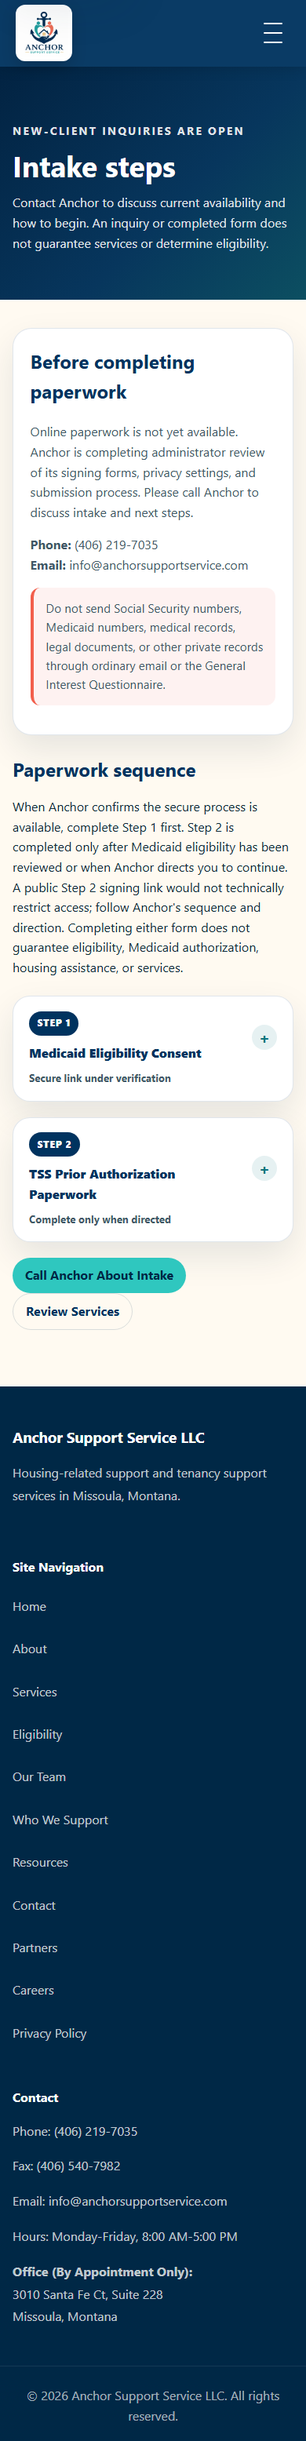
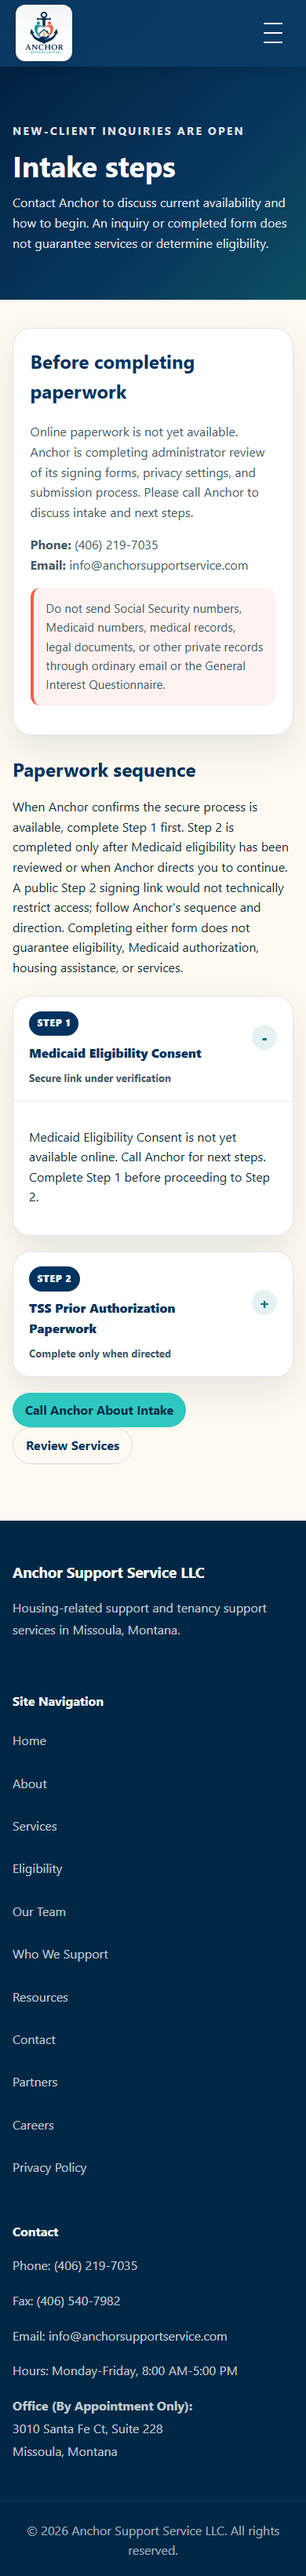
Restore two-step intake paperwork layout

diff --git a/secure-paperwork.html b/secure-paperwork.html
@@ -49,7 +49,7 @@
           <h2 id="paperwork-steps-title">Paperwork sequence</h2>
           <p>When Anchor confirms the secure process is available, complete Step 1 first. Step 2 is completed only after Medicaid eligibility has been reviewed or when Anchor directs you to continue. A public Step 2 signing link would not technically restrict access; follow Anchor's sequence and direction. Completing either form does not guarantee eligibility, Medicaid authorization, housing assistance, or services.</p>
           <div class="paperwork-accordion">
-            <details class="paperwork-step">
+            <details class="paperwork-step" open>
               <summary><span class="paperwork-step-number">Step 1</span><span class="paperwork-step-title">Medicaid Eligibility Consent</span><span class="paperwork-step-status">Secure link under verification</span></summary>
               <div class="paperwork-step-content"><p>Medicaid Eligibility Consent is not yet available online. Call Anchor for next steps. Complete Step 1 before proceeding to Step 2.</p></div>
             </details>

diff --git a/.github/site-tools/website_qa.py b/.github/site-tools/website_qa.py
@@ -249,11 +249,21 @@ def main():
             secure_html = (root / "secure-paperwork.html").read_text(encoding="utf-8").casefold()
             secure_online_unavailable = "online paperwork is not yet available" in secure_text.casefold()
             no_published_jotform_link = "jotform.com" not in secure_html and "/invite/" not in secure_html
-            secure_intake_ok = secure_meta == "noindex, nofollow" and all(s in secure_text + " " + steps_text for s in ["Step 1", "Medicaid Eligibility Consent", "Step 2", "TSS Prior Authorization Paperwork", "only after Medicaid eligibility has been reviewed", "does not guarantee eligibility, Medicaid authorization, housing assistance"]) and secure_online_unavailable and no_published_jotform_link and page.locator(".paperwork-step").count() == 2 and page.locator("iframe").count() == 0 and page.locator("form").count() == 0 and page.locator('a[href="tel:4062197035"]').count() >= 1 and page.locator('a[href^="https://www.jotform.com/"]').count() == 0
+            steps = page.locator(".paperwork-step")
+            step1_open = steps.count() == 2 and steps.nth(0).evaluate("el => el.open")
+            step2_summary = steps.nth(1).locator("summary") if steps.count() == 2 else None
+            if step2_summary:
+                step2_summary.click()
+                step2_expands = steps.nth(1).evaluate("el => el.open")
+                step2_summary.click()
+                step2_collapses = not steps.nth(1).evaluate("el => el.open")
+            else:
+                step2_expands = step2_collapses = False
+            secure_intake_ok = secure_meta == "noindex, nofollow" and all(s in secure_text + " " + steps_text for s in ["Step 1", "Medicaid Eligibility Consent", "Step 2", "TSS Prior Authorization Paperwork", "only after Medicaid eligibility has been reviewed", "does not guarantee eligibility, Medicaid authorization, housing assistance"]) and secure_online_unavailable and no_published_jotform_link and steps.count() == 2 and step1_open and step2_expands and step2_collapses and page.locator("iframe").count() == 0 and page.locator("form").count() == 0 and page.locator('a[href="tel:4062197035"]').count() >= 1 and page.locator('a[href^="https://www.jotform.com/"]').count() == 0
             stale_pause_copy = re.compile(r"paused from accepting new clients|new client pause|intake (?:is )?paused|paperwork (?:is )?paused", re.I)
             public_html = [root / "index.html", root / "careers" / "index.html", root / "secure-paperwork.html"]
             no_stale_intake_pause = all(not stale_pause_copy.search(file.read_text(encoding="utf-8")) for file in public_html)
-            results["journeys"]["new_client_intake"] = {"homepage_notice": intake_notice_ok, "secure_steps_and_online_forms_unavailable": secure_intake_ok, "no_jotform_or_invitation_links_published": no_published_jotform_link, "secure_route_noindex_nofollow": secure_meta == "noindex, nofollow", "no_stale_pause_copy": no_stale_intake_pause}
+            results["journeys"]["new_client_intake"] = {"homepage_notice": intake_notice_ok, "secure_steps_and_online_forms_unavailable": secure_intake_ok, "step1_open": step1_open, "step2_expandable_and_collapsible": step2_expands and step2_collapses, "no_jotform_or_invitation_links_published": no_published_jotform_link, "secure_route_noindex_nofollow": secure_meta == "noindex, nofollow", "no_stale_pause_copy": no_stale_intake_pause}
 
             page.set_viewport_size({"width": 390, "height": 844})
             page.goto(base + "/", wait_until="networkidle")

diff --git a/review-artifacts/partners/RELEASE_REVIEW.md b/review-artifacts/partners/RELEASE_REVIEW.md
@@ -30,11 +30,13 @@ The two historical forms are:
 
 The `/secure-paperwork.html` page provides verified telephone contact and clearly states that online paperwork is not yet available. The homepage Contact section now offers the existing Google General Interest Questionnaire alongside the phone and intake-steps actions, states it is not a secure Medicaid enrollment form, and warns against submitting sensitive medical, Medicaid, or identifying information. The form's public blank view asks for contact information and general housing/service needs, explicitly prohibits Social Security numbers, medical records, legal documents, full Medicaid numbers, and private documents, and provides a submit control. On November 18, 2026, it loaded successfully (HTTP 200), showed a Submit control, and displayed no closed-form message. No data was entered or submitted. This indicates the form appeared open at check time, but does not verify response routing or notifications.
 
-The intake page retains the Step 1 Medicaid Consent then Step 2 TSS Referral / Prior Authorization sequence, with Step 2 only after Medicaid review or Anchor's direction. No Jotform embed, invitation link, or full-screen signing link is included in current website source or generated public output. Online signing remains inactive.
+The intake page retains the Step 1 Medicaid Consent then Step 2 TSS Referral / Prior Authorization sequence, with Step 2 only after Medicaid review or Anchor's direction. Step 1 is open by default and Step 2 is expandable. No Jotform embed, invitation link, or full-screen signing link is included in current website source or generated public output. Online signing remains inactive.
 
 An earlier anonymous read-only check observed some non-empty fields in the supplied forms. **That observation alone is not evidence of a privacy incident. No field contents were inspected, exposed, recorded, or submitted.** The authorized Jotform administrator must determine whether any prefilled content is an intentional organization-level default or applicant-specific information by inspecting form configuration in the authenticated account and confirming with safe synthetic sessions only. No actual applicant values should be copied into this review or shared during verification.
 
 The supplied invite-path URLs appeared in earlier pushed branch commit `1fe7784`. They have been removed from the current website source and generated public output, but remain in Git history; this update does not rewrite branch history. That fact does not establish applicant-data exposure. The Jotform administrator should determine whether those URLs are invitation-specific and invalidate/reissue them if appropriate under Anchor's process.
+
+The reference implementation in `8f022ebe5cbd2c9fb88d0cd2124fc0644f4600ed` contains the original two-step layout, but its iframe URLs use `/sign/{document-id}/invite/{token}` paths. That implementation does not prove the links are current reusable Share → Embed links or that sessions are isolated. The layout is restored on the current branch; the unverified embeds remain absent.
 
 An authorized Jotform administrator must verify and document all of the following before enabling online paperwork:
 
@@ -59,7 +61,7 @@ Ran the public-site builder and existing Playwright QA suite against `dist/publi
 - No overflow, page errors, console errors, failed local requests, broken images, unresolved internal links, or automated accessibility smoke-test findings.
 - Partners content/limitations/privacy/contact/no-form checks passed; route is in the sitemap, public allowlist, homepage callout, mobile navigation, desktop navigation, footer, Careers, Policy, secure-paperwork, and 404 navigation.
 - Existing client-intake phone fallback, Careers/Indeed/PDF, Privacy Policy, contact links, and public WaiverTrack landing-route checks passed. WaiverTrack authentication was not opened or changed.
-- Secure-paperwork QA verifies the forms-unavailable notice, telephone contact, sequence, no-guarantee notice, `noindex, nofollow`, no form/iframe, and no Jotform or invitation links in the current public page source/output.
+- Secure-paperwork QA verifies the forms-unavailable notice, telephone contact, Step 1 open state, Step 2 expand/collapse behavior, sequence, no-guarantee notice, `noindex, nofollow`, no form/iframe, and no Jotform or invitation links in current public source/output.
 - Homepage Contact QA verifies the General Interest Questionnaire URL and visible label, phone and intake-steps actions, safe-link attributes, and the notice that this is not secure Medicaid enrollment and must not receive sensitive data.
 - The form status, default field categories, fresh-session isolation, destination account, notification contents/recipients, staff access, HIPAA environment, and BAA coverage require authorized administrator verification.
 - Pre-deployment live check on November 18, 2026: homepage HTTP 200 but still contains the intake-pause wording; `/partners/` returns HTTP 404; `/careers/` returns HTTP 200. The live homepage already has the existing General Interest List form link. These are baseline observations before this branch is merged or deployed, not post-deployment verification.
